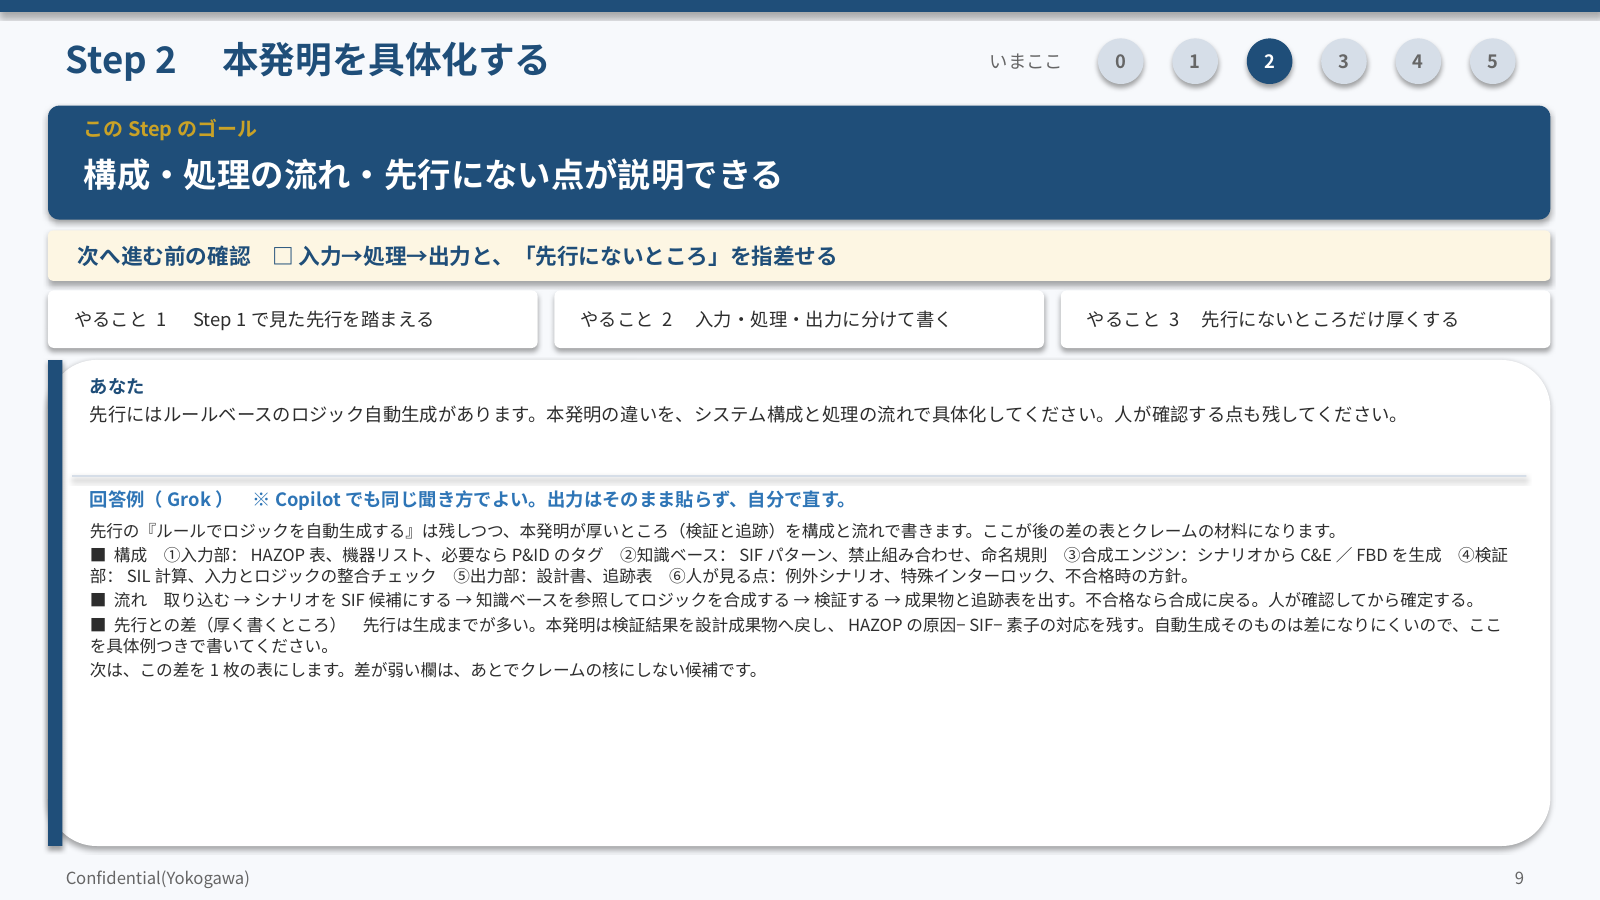
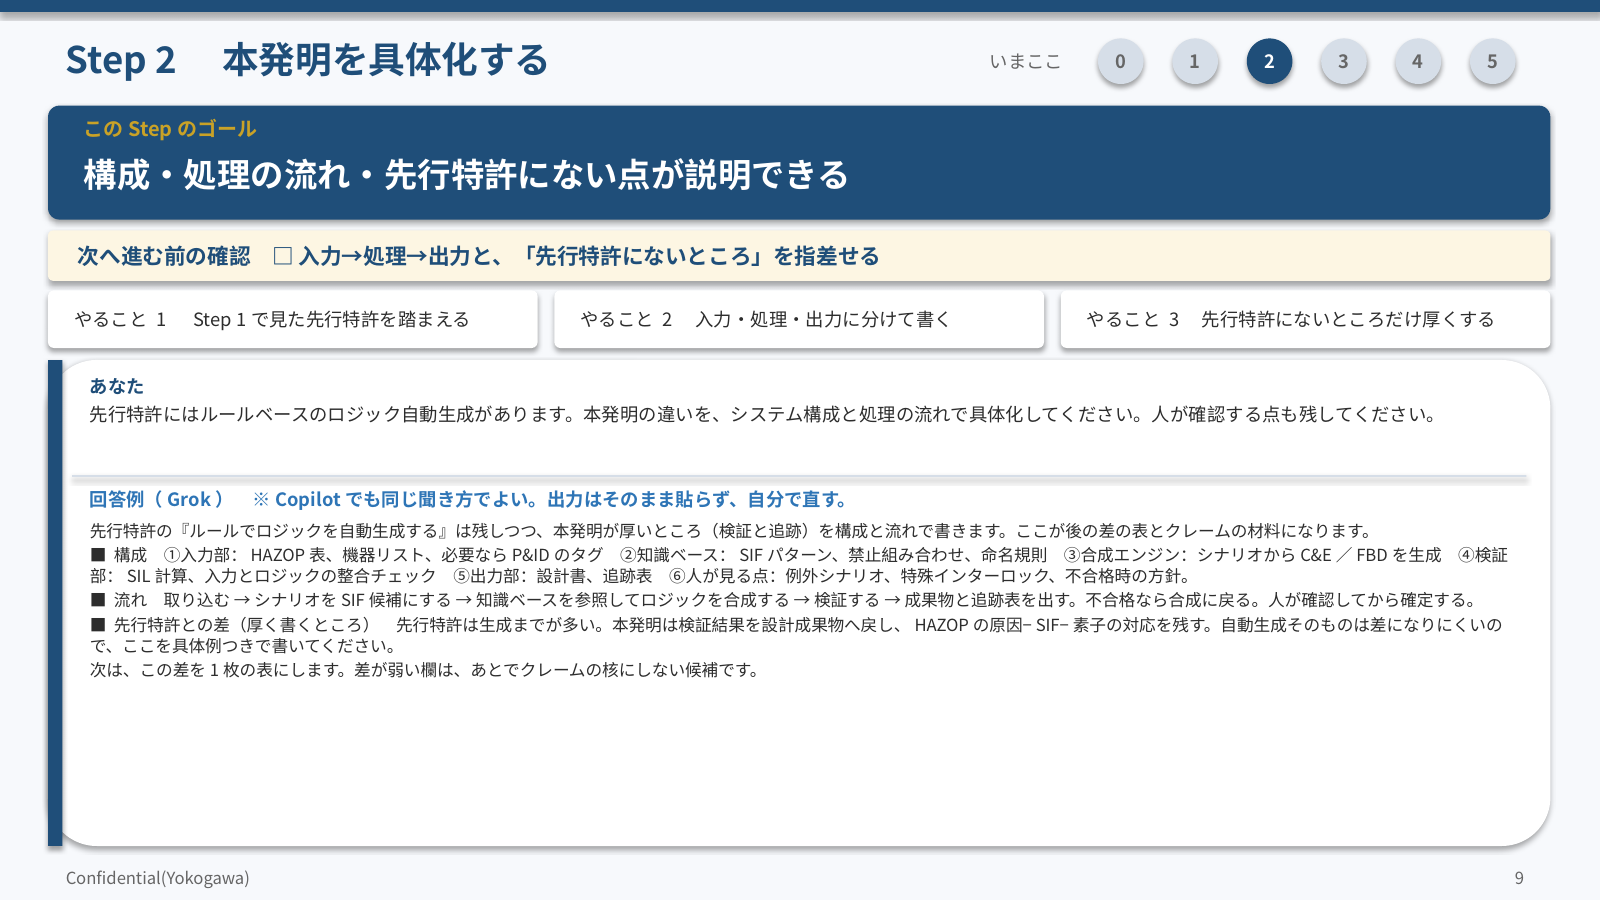
Unify prior-patent wording, goal labels, and step colors
Use 先行特許 throughout, label process outcomes as ゴール, and make
all step numbers on the overview slide the same navy.

diff --git a/infographic/invention_disclosure.py b/infographic/invention_disclosure.py
@@ -112,7 +112,7 @@ def add_purpose_slide(prs):
     cards = [
         ("誰向け", "初めて開示書を書く人\nAIで知財業務を進めたい人"),
         ("何が変わる", "数日〜1週間 → 数時間で素案\n中身の責任は発明者自身"),
-        ("進め方", "近い特許を先に見る\nクレームはそのあとで書く"),
+        ("進め方", "近い先行特許を先に見る\nクレームはそのあとで書く"),
     ]
     for i, (t, b) in enumerate(cards):
         x = Inches(0.5) + Inches(4.2) * i
@@ -153,7 +153,7 @@ def add_guardrail_slide(prs):
 
 def add_tools_slide(prs):
     slide = blank_slide(prs)
-    header_bar(slide, "使う道具は2つ", "文章づくりと、近い特許を探すこと")
+    header_bar(slide, "使う道具は2つ", "文章づくりと、近い先行特許を探すこと")
     tools = [
         (NAVY, "M365 Copilot", "文章の下書き・整理・用語そろえ\n自然な言葉で依頼する"),
         (Theme.ACCENT, "PatentSQUARE", "近い先行特許を探す（社内標準）\nクレームを書く前に使う"),
@@ -190,7 +190,7 @@ def add_template_slide(prs):
         add_text_box(slide, x + Inches(0.08), Inches(3.3), Inches(1.12), Inches(1.8), t, size=Pt(14), color=NAVY, bold=True, align=PP_ALIGN.CENTER)
     add_text_box(
         slide, Inches(0.5), Inches(5.75), Inches(12.3), Inches(0.9),
-        "テンプレート：知的財産部ホームページ（ANAQUA形式）\nクレーム案（5）は、先行調査のあとで書く。",
+        "テンプレート：知的財産部ホームページ（ANAQUA形式）\nクレーム案（5）は、先行特許調査のあとで書く。",
         size=Pt(14), color=Theme.TEXT_MUTED,
     )
     _footer(slide, "5")
@@ -199,18 +199,18 @@ def add_template_slide(prs):
 
 def add_process_slide(prs):
     slide = blank_slide(prs)
-    header_bar(slide, "全体の手順と、各Stepのゴール", "上段がやること。下段の一文ができたら、次のStepへ進んでよい")
+    header_bar(slide, "全体の手順と、各Stepのゴール", "上段がやること。下段がゴール。ゴールに達したら次へ進む")
     steps = [
         ("0", "タネを言語化", "課題と解決を\n30秒で話せる"),
-        ("1", "先行を先に見る", "近い特許と\n被りそうな点が見える"),
-        ("2", "本発明を具体化", "構成と流れと\n先行にない点が言える"),
+        ("1", "先行特許を先に見る", "近い先行特許と\n被りそうな点が見える"),
+        ("2", "本発明を具体化", "構成と流れと\n先行特許にない点が言える"),
         ("3", "差を表にする", "従来との差が\n1枚の表になる"),
         ("4", "クレームと発展", "被りにくい\n守り方が書ける"),
         ("5", "開示書へ落とす", "項目が埋まり\n矛盾がない"),
     ]
     for i, (n, t, g) in enumerate(steps):
         x = Inches(0.38) + Inches(2.16) * i
-        color = Theme.ACCENT if n in ("1", "4") else NAVY
+        color = NAVY
         add_rect(slide, x, Inches(1.42), Inches(2.06), Inches(5.38), Theme.CARD, corner=True)
         add_circle(slide, x + Inches(0.72), Inches(1.58), Inches(0.52), color)
         add_text_box(
@@ -224,7 +224,7 @@ def add_process_slide(prs):
         add_rect(slide, x + Inches(0.12), Inches(3.15), Inches(1.82), Inches(0.05), color)
         add_rect(slide, x + Inches(0.10), Inches(3.38), Inches(1.86), Inches(3.15), GOAL_BG, corner=True)
         add_text_box(
-            slide, x + Inches(0.12), Inches(3.48), Inches(1.82), Inches(0.38), "終わったら",
+            slide, x + Inches(0.12), Inches(3.48), Inches(1.82), Inches(0.38), "ゴール",
             size=Pt(12), color=GOLD, bold=True, align=PP_ALIGN.CENTER,
         )
         add_text_box(
@@ -312,7 +312,7 @@ def build_deck():
     add_title_slide(
         prs,
         title="Copilotで作る\n発明開示書",
-        subtitle="ゼロから素案まで　─　先行調査を先に、クレームは後で",
+        subtitle="ゼロから素案まで　─　先行特許調査を先に、クレームは後で",
         footer="王 者興  |  MKDS BDD Gr1.  |  2026/06/12",
     )
     add_purpose_slide(prs)
@@ -361,7 +361,7 @@ def build_deck():
             "■ 検索の核　安全計装、SIS、SIF、HAZOP、C&E、cause and effect、FBD、インターロック、トリップロジック、ロジック自動生成、SIL検証、トレーサビリティ。英語も併用：safety instrumented system, automatic generation, cause and effect matrix。\n"
             "■ 組み合わせ例　「HAZOP 自動 AND SIF」「cause and effect 自動生成 安全計装」「SIL verification 自動 ロジック」。広すぎたら『検証』『追跡』『HAZOP』を必須語にして絞る。\n"
             "■ 読む観点（ここが本命）　①ロジックをどこまで自動で作るか（ルールだけか、知識ベースか）　②SIL検証とつながるか　③HAZOP項目と成果物の対応が残るか　④人がどこを確認するか　⑤対象がSISか、DCSの一般ロジックか。\n"
-            "■ 注意　『自動生成』は先行にもよく出ます。生成までで止まっているか、検証結果を設計へ戻しているか、追跡表があるか、を先に見てください。似ている点／違う点が一言で言えたら、Step 2へ進みます。"
+            "■ 注意　『自動生成』は先行特許にもよく出ます。生成までで止まっているか、検証結果を設計へ戻しているか、追跡表があるか、を先に見てください。似ている点／違う点が一言で言えたら、Step 2へ進みます。"
         ),
     )
     add_step_slide(
@@ -369,19 +369,19 @@ def build_deck():
         page="9",
         step="2",
         title="本発明を具体化する",
-        goal="構成・処理の流れ・先行にない点が説明できる",
-        check="入力→処理→出力と、「先行にないところ」を指差せる",
+        goal="構成・処理の流れ・先行特許にない点が説明できる",
+        check="入力→処理→出力と、「先行特許にないところ」を指差せる",
         do_items=[
-            "Step 1で見た先行を踏まえる",
+            "Step 1で見た先行特許を踏まえる",
             "入力・処理・出力に分けて書く",
-            "先行にないところだけ厚くする",
+            "先行特許にないところだけ厚くする",
         ],
-        question="先行にはルールベースのロジック自動生成があります。本発明の違いを、システム構成と処理の流れで具体化してください。人が確認する点も残してください。",
+        question="先行特許にはルールベースのロジック自動生成があります。本発明の違いを、システム構成と処理の流れで具体化してください。人が確認する点も残してください。",
         answer=(
-            "先行の『ルールでロジックを自動生成する』は残しつつ、本発明が厚いところ（検証と追跡）を構成と流れで書きます。ここが後の差の表とクレームの材料になります。\n"
+            "先行特許の『ルールでロジックを自動生成する』は残しつつ、本発明が厚いところ（検証と追跡）を構成と流れで書きます。ここが後の差の表とクレームの材料になります。\n"
             "■ 構成　①入力部：HAZOP表、機器リスト、必要ならP&IDのタグ　②知識ベース：SIFパターン、禁止組み合わせ、命名規則　③合成エンジン：シナリオからC&E／FBDを生成　④検証部：SIL計算、入力とロジックの整合チェック　⑤出力部：設計書、追跡表　⑥人が見る点：例外シナリオ、特殊インターロック、不合格時の方針。\n"
             "■ 流れ　取り込む → シナリオをSIF候補にする → 知識ベースを参照してロジックを合成する → 検証する → 成果物と追跡表を出す。不合格なら合成に戻る。人が確認してから確定する。\n"
-            "■ 先行との差（厚く書くところ）　先行は生成までが多い。本発明は検証結果を設計成果物へ戻し、HAZOPの原因−SIF−素子の対応を残す。自動生成そのものは差になりにくいので、ここを具体例つきで書いてください。\n"
+            "■ 先行特許との差（厚く書くところ）　先行特許は生成までが多い。本発明は検証結果を設計成果物へ戻し、HAZOPの原因−SIF−素子の対応を残す。自動生成そのものは差になりにくいので、ここを具体例つきで書いてください。\n"
             "次は、この差を1枚の表にします。差が弱い欄は、あとでクレームの核にしない候補です。"
         ),
     )
@@ -393,18 +393,18 @@ def build_deck():
         goal="従来／課題／差／優位性が、1枚の表で対比できる",
         check="表の「差」の行を、人が見ても同じ理解になる",
         do_items=[
-            "先行の要約を入力する",
+            "先行特許の要約を入力する",
             "本発明との差だけ残す",
             "差がない項目は狙いをずらす",
         ],
-        question="先行は「ルールでロジックを自動生成するが、SIL検証と変更追跡はない」とします。本発明との差を、従来／課題／差／優位性の表にしてください。差が弱い欄も指摘してください。",
+        question="先行特許は「ルールでロジックを自動生成するが、SIL検証と変更追跡はない」とします。本発明との差を、従来／課題／差／優位性の表にしてください。差が弱い欄も指摘してください。",
         answer=(
             "仮定どおり『生成はあるが、検証と追跡はない』として対比します。表は開示書の2.2（従来の問題）と3.4（効果）にそのまま使えます。\n"
             "■ 従来　HAZOP後にC&E／FBDを手作業。一部ツールはルールでロジックだけ自動生成する。検証と設計変更の反映は別作業のまま。\n"
             "■ 従来の課題　転記ミスと属人化が残る。生成結果の根拠が残らない。変更が入ると、どのHAZOP項目とどの素子を直すかが追えない。\n"
             "■ 差　本発明は合成に加え、検証部を持ち、検証結果を成果物へ戻す。HAZOP原因−SIF−素子の追跡表を出す。不合格時は合成に戻る。人が例外を確認する点を残す。\n"
             "■ 優位性　漏れに気づきやすい。レビューが追跡表でできる。変更時に影響範囲が見える。担当者による切り方のぶれを知識ベースで抑えやすい。\n"
-            "■ 差が弱い欄　『自動生成すること自体』『ルールベースであること』は先行と重なりやすい。クレームの核にしない。核は『検証結果の設計への反映』と『入力項目と素子の対応の記録』に置く。"
+            "■ 差が弱い欄　『自動生成すること自体』『ルールベースであること』は先行特許と重なりやすい。クレームの核にしない。核は『検証結果の設計への反映』と『入力項目と素子の対応の記録』に置く。"
         ),
     )
     add_step_slide(
@@ -412,16 +412,16 @@ def build_deck():
         page="11",
         step="4",
         title="クレーム案と発展例",
-        goal="先行と被りにくい保護範囲の案がある",
+        goal="先行特許と被りにくい保護範囲の案がある",
         check="独立項が「差の核」だけになっており、自動生成だけでは終わっていない",
         do_items=[
             "独立項は差の核だけにする",
             "従属項で変形・適用を広げる",
             "将来の派生テーマも一行で残す",
         ],
-        question="上の差を踏まえ、先行と被りにくい独立クレームの骨格と、従属クレーム・発展例の案を作ってください。独立項が『自動生成』だけで終わらないようにしてください。",
+        question="上の差を踏まえ、先行特許と被りにくい独立クレームの骨格と、従属クレーム・発展例の案を作ってください。独立項が『自動生成』だけで終わらないようにしてください。",
         answer=(
-            "独立項は差の核だけにします。『ロジックを自動生成する手段』だけで始めると、Step 1で見た先行に被りやすいです。\n"
+            "独立項は差の核だけにします。『ロジックを自動生成する手段』だけで始めると、Step 1で見た先行特許に被りやすいです。\n"
             "■ 独立項の核　HAZOP等の入力を取り込む手段と、SIFロジックを合成する手段と、合成結果を検証する手段と、検証結果を設計成果物へ反映する手段と、入力項目とロジック素子の対応を記録する手段、を備える。ポイントは『検証して戻す』と『対応を記録する』が落ちないこと。\n"
             "■ 従属の例　知識ベースを更新する、不合格時に再合成する、追跡表を出力する、人が例外を確認してから確定する、複数プラントへ展開する、P&IDタグと対応づける。\n"
             "■ 発展例　運転中のインターロック見直し、異常検知ロジックへの展開、規則の学習による知識ベース更新。\n"
